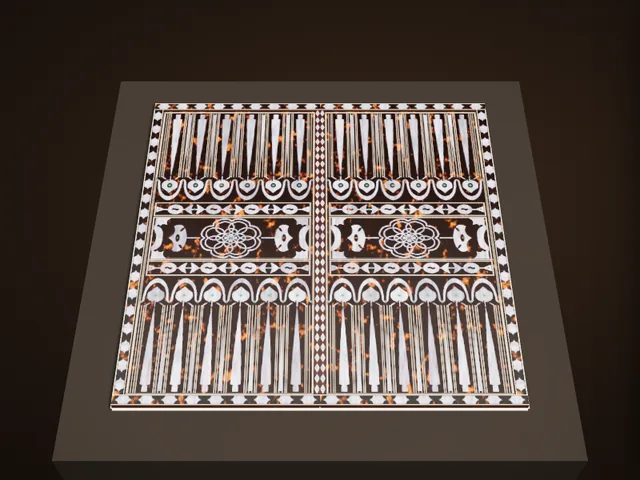
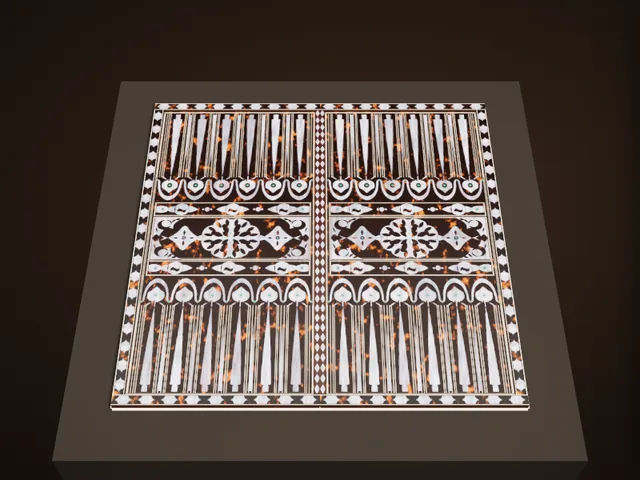
博物館：オスマン帝国の盤の帯とメダイヨンを写真の透かし彫りに合わせて描き直し
Claude-Session: https://claude.ai/code/session_01EiWRAZTxRF5M5nk5vdR2jJ

Changed region(s): [[0.2188, 0.375, 0.7812, 0.625], [0.7188, 0.25, 0.75, 0.3438], [0.4062, 0.625, 0.4375, 0.6562]]

diff --git a/atlas/museum/ex/ottoman.js b/atlas/museum/ex/ottoman.js
@@ -117,45 +117,53 @@
           bands.forEach(([by, bh, deep]) => {
             string(ix0 + cm(.2), by, iw - cm(.4), bh);
             const bx0 = ix0 + cm(.45), bx1 = ix1 - cm(.45), bw = bx1 - bx0, bcy = by + bh / 2;
+            // a hole cut through a pearl piece, showing the turtle shell beneath
+            const H = (path) => { g.fillStyle = SP; g.fill(path); m.fillStyle = '#000'; m.fill(path); g.strokeStyle = 'rgba(40,22,14,.5)'; g.lineWidth = 1; g.stroke(path); };
+            const drop = (x, y, rx, ry, rot) => { const p = new Path2D(); const c = Math.cos(rot), s2 = Math.sin(rot), T = (u, v) => [x + u * c - v * s2, y + u * s2 + v * c];
+              p.moveTo(...T(0, -ry)); p.quadraticCurveTo(...T(rx, -ry * .1), ...T(0, ry)); p.quadraticCurveTo(...T(-rx, -ry * .1), ...T(0, -ry)); return p; };
             if (!deep) {
-              // a chain: roundels with an S of shell in the middle, between pointed lobed motifs, all on a thin stem
-              const n = 4, step = bw / n;
-              const stem = new Path2D(); stem.rect(bx0, bcy - cm(.1), bw, cm(.2)); P(stem, .02);
-              for (let i = 0; i < n; i++) { const rx = bx0 + step * (i + .5);
-                const ro = new Path2D(); ro.ellipse(rx, bcy, cm(1.2), cm(.92), 0, 0, 6.29); P(ro);
-                const ss = new Path2D(); ss.moveTo(rx - cm(.5), bcy + cm(.1)); ss.bezierCurveTo(rx - cm(.2), bcy - cm(.5), rx + cm(.2), bcy + cm(.5), rx + cm(.5), bcy - cm(.1)); g.strokeStyle = SP; g.lineWidth = cm(.34); g.stroke(ss); m.strokeStyle = '#000'; m.lineWidth = cm(.34); m.stroke(ss);
-                if (i < n) { const lx = bx0 + step * i; [-1, 1].forEach(sd => { if ((i === 0 && sd < 0)) return; const ax = lx + (i === 0 ? 0 : 0), lob = new Path2D();
-                  lob.moveTo(ax + sd * cm(.25), bcy - cm(.95)); lob.quadraticCurveTo(ax + sd * cm(1.0), bcy - cm(.7), ax + sd * cm(1.55), bcy); lob.quadraticCurveTo(ax + sd * cm(1.0), bcy + cm(.7), ax + sd * cm(.25), bcy + cm(.95)); lob.quadraticCurveTo(ax + sd * cm(.75), bcy, ax + sd * cm(.25), bcy - cm(.95)); if (i) P(lob); }); if (i) GR(lx, bcy, cm(.14), cm(.2)); }
+              // (after the photograph) three roundels, each a disc of pearl with a wave of shell through it, flanked by pointed lobes;
+              // a bead between the groups; a leaf with a green drop at each end
+              const n = 3, step = bw / n;
+              for (let i = 0; i < n; i++) { const rx = bx0 + step * (i + .5), R1 = Math.min(bh * .42, cm(1.15));
+                const u = new Path2D(); u.ellipse(rx, bcy, R1 * 1.05, R1, 0, 0, 6.29);
+                [-1, 1].forEach(sd => { u.moveTo(rx + sd * R1 * .9, bcy - R1 * .55); u.quadraticCurveTo(rx + sd * R1 * 1.6, bcy - R1 * .5, rx + sd * R1 * 2.25, bcy); u.quadraticCurveTo(rx + sd * R1 * 1.6, bcy + R1 * .5, rx + sd * R1 * .9, bcy + R1 * .55); u.closePath(); });
+                P(u);
+                const ss = new Path2D(); ss.moveTo(rx - R1 * .62, bcy + R1 * .12); ss.bezierCurveTo(rx - R1 * .25, bcy - R1 * .62, rx + R1 * .25, bcy + R1 * .62, rx + R1 * .62, bcy - R1 * .12);
+                ss.lineTo(rx + R1 * .62, bcy + R1 * .3); ss.bezierCurveTo(rx + R1 * .25, bcy + R1 * 1.1, rx - R1 * .25, bcy - R1 * .14, rx - R1 * .62, bcy + R1 * .56); ss.closePath(); H(ss);
+                if (i) { const bx = bx0 + step * i, bd = new Path2D(); bd.ellipse(bx, bcy, R1 * .32, R1 * .38, 0, 0, 6.29); bd.moveTo(bx + R1 * .7, bcy); bd.ellipse(bx + R1 * .55, bcy, R1 * .15, R1 * .15, 0, 0, 6.29); bd.moveTo(bx - R1 * .4, bcy); bd.ellipse(bx - R1 * .55, bcy, R1 * .15, R1 * .15, 0, 0, 6.29); P(bd); }
               }
-              // the pointed finials at each end
-              [bx0, bx1].forEach((ex, k) => { const sd = k ? -1 : 1, f = new Path2D(); f.moveTo(ex, bcy - cm(.55)); f.quadraticCurveTo(ex + sd * cm(.9), bcy - cm(.25), ex + sd * cm(1.25), bcy); f.quadraticCurveTo(ex + sd * cm(.9), bcy + cm(.25), ex, bcy + cm(.55)); f.closePath(); P(f); GR(ex + sd * cm(.45), bcy, cm(.13), cm(.2)); });
+              [bx0, bx1].forEach((ex, k) => { const sd = k ? -1 : 1, f = new Path2D(), R1 = Math.min(bh * .4, cm(1.1)); f.moveTo(ex, bcy - R1 * .5); f.quadraticCurveTo(ex + sd * R1 * 1.2, bcy - R1 * .9, ex + sd * R1 * 2.0, bcy); f.quadraticCurveTo(ex + sd * R1 * 1.2, bcy + R1 * .9, ex, bcy + R1 * .5); f.closePath(); P(f); GR(ex + sd * R1 * .95, bcy, R1 * .2, R1 * .28); });
             } else {
-              // the deep band: a round fretted medallion of interlace (four joined quarters), smaller lobed cartouches either side,
-              // fretted hooks (spandrels) in the corners
-              const mx = bx0 + bw / 2, MW = cm(4.7), MH = bh * .47, lw = cm(.16);
-              const strokeP = (p, wdt) => { g.strokeStyle = PP; g.lineWidth = wdt; g.stroke(p); m.strokeStyle = '#fff'; m.lineWidth = wdt; m.stroke(p); g.strokeStyle = 'rgba(40,22,14,.45)'; g.lineWidth = 1; g.stroke(p); };
-              // a lobed round medallion (eight ogee lobes) filled with a dense interlace of rings, a quatrefoil at the heart
-              const lob = new Path2D(), LB = 8;
-              for (let q = 0; q <= LB * 8; q++) { const a = q / (LB * 8) * Math.PI * 2, f = Math.abs(Math.sin(a * LB / 2)), rr = 1 - .14 * Math.pow(1 - f, 2); const x = mx + Math.cos(a) * MW * rr, y = bcy + Math.sin(a) * MH * rr; q ? lob.lineTo(x, y) : lob.moveTo(x, y); } lob.closePath();
-              strokeP(lob, lw * 1.2);
-              const ring = new Path2D();
-              for (let q = 0; q < 8; q++) { const a = q / 8 * Math.PI * 2 + Math.PI / 8, x = mx + Math.cos(a) * MW * .56, y = bcy + Math.sin(a) * MH * .56; ring.moveTo(x + MW * .3, y); ring.ellipse(x, y, MW * .3, MH * .3, 0, 0, Math.PI * 2); }
-              for (let q = 0; q < 4; q++) { const a = q / 4 * Math.PI * 2, x = mx + Math.cos(a) * MW * .28, y = bcy + Math.sin(a) * MH * .28; ring.moveTo(x + MW * .2, y); ring.ellipse(x, y, MW * .2, MH * .2, 0, 0, Math.PI * 2); }
-              strokeP(ring, lw);
-              const qf = new Path2D(); for (let q = 0; q < 4; q++) { const a = q * Math.PI / 2; qf.moveTo(mx, bcy); qf.quadraticCurveTo(mx + Math.cos(a - .5) * MW * .3, bcy + Math.sin(a - .5) * MH * .3, mx + Math.cos(a) * MW * .2, bcy + Math.sin(a) * MH * .2); qf.quadraticCurveTo(mx + Math.cos(a + .5) * MW * .3, bcy + Math.sin(a + .5) * MH * .3, mx, bcy); } P(qf);
-              GR(mx, bcy, cm(.13), cm(.19));
-              const MWt = MW;
-              // long finials from the points of the mandorla, ending in a lobed palmette; quarter medallions at the band's ends
-              [-1, 1].forEach(sd => { const tx = mx + sd * MWt, fx = mx + sd * bw * .34, fin = new Path2D();
-                fin.moveTo(tx, bcy - cm(.12)); fin.lineTo(fx - sd * cm(1.4), bcy - cm(.12)); fin.quadraticCurveTo(fx - sd * cm(1.0), bcy - bh * .42, fx + sd * cm(.7), bcy - bh * .28); fin.quadraticCurveTo(fx + sd * cm(.1), bcy - bh * .1, fx + sd * cm(1.4), bcy);
-                fin.quadraticCurveTo(fx + sd * cm(.1), bcy + bh * .1, fx + sd * cm(.7), bcy + bh * .28); fin.quadraticCurveTo(fx - sd * cm(1.0), bcy + bh * .42, fx - sd * cm(1.4), bcy + cm(.12)); fin.lineTo(tx, bcy + cm(.12)); fin.closePath();
-                fin.moveTo(fx + sd * cm(.35), bcy); fin.ellipse(fx, bcy, cm(.35), bh * .09, 0, 0, 6.29, sd > 0);
-                [-1, 1].forEach(vs => { const ex2 = fx - sd * cm(.6), ey = bcy + vs * bh * .2; fin.moveTo(ex2 + cm(.2), ey); fin.ellipse(ex2, ey, cm(.2), bh * .06, vs * sd * .6, 0, 6.29, sd > 0); }); P(fin); GR(fx, bcy, cm(.1), cm(.15));
-                const ex = sd < 0 ? bx0 : bx1, q = new Path2D(); q.moveTo(ex, bcy - bh * .3); q.quadraticCurveTo(ex - sd * cm(1.7), bcy - bh * .26, ex - sd * cm(1.5), bcy); q.quadraticCurveTo(ex - sd * cm(1.7), bcy + bh * .26, ex, bcy + bh * .3); q.lineTo(ex, bcy + bh * .22); q.quadraticCurveTo(ex - sd * cm(1.15), bcy, ex, bcy - bh * .22); q.closePath(); P(q); });
-              // spandrels: a hooked cloud band in each corner
-              [[bx0, by, 1, 1], [bx1, by, -1, 1], [bx0, by + bh, 1, -1], [bx1, by + bh, -1, -1]].forEach(([sx, sy, dx, dy]) => { const sp = new Path2D();
-                sp.moveTo(sx, sy + dy * cm(.15)); sp.lineTo(sx + dx * cm(2.6), sy + dy * cm(.15)); sp.quadraticCurveTo(sx + dx * cm(1.6), sy + dy * cm(.6), sx + dx * cm(2.0), sy + dy * cm(1.5)); sp.quadraticCurveTo(sx + dx * cm(1.2), sy + dy * cm(1.1), sx + dx * cm(1.0), sy + dy * cm(1.7)); sp.quadraticCurveTo(sx + dx * cm(.6), sy + dy * cm(1.0), sx + dx * cm(.15), sy + dy * cm(2.1)); sp.lineTo(sx + dx * cm(.15), sy + dy * cm(.15)); sp.closePath();
-                sp.moveTo(sx + dx * cm(.9), sy + dy * cm(.6)); sp.ellipse(sx + dx * cm(1.0), sy + dy * cm(.75), cm(.35), cm(.22), 0, 0, 6.29, dx * dy < 0); P(sp); });
+              // (after the photograph) the deep band: a lobed medallion of fretted pearl at the centre, a fretted lozenge of palmettes
+              // either side on a stem, and large fretted spandrels filling the four corners
+              const mx = bx0 + bw / 2, MW = bw * .19, MH = bh * .48;
+              const stem = new Path2D(); stem.rect(bx0 + bw * .2, bcy - cm(.09), bw * .6, cm(.18)); P(stem, .02);
+              const med = new Path2D(), LB = 8;
+              for (let q = 0; q <= 160; q++) { const a = q / 160 * Math.PI * 2, f = Math.abs(Math.sin(a * LB / 2)), rr = 1 - .12 * Math.pow(1 - f, 2), x = mx + Math.cos(a) * MW * rr, y = bcy + Math.sin(a) * MH * rr; q ? med.lineTo(x, y) : med.moveTo(x, y); } med.closePath();
+              [-1, 1].forEach(sd => { med.moveTo(mx + sd * MW * .96, bcy - MH * .14); med.lineTo(mx + sd * MW * 1.32, bcy); med.lineTo(mx + sd * MW * .96, bcy + MH * .14); });   // the pointed ends on the axis
+              P(med);
+              // the fretwork: rings of holes — hearts and drops — leaving the interlaced straps of pearl; the axes left solid
+              for (let q = 0; q < 16; q++) { const a = (q + .5) / 16 * Math.PI * 2; H(drop(mx + Math.cos(a) * MW * .78, bcy + Math.sin(a) * MH * .78, MW * .14, MH * .2, a + Math.PI / 2)); }
+              for (let q = 0; q < 8; q++) { const a = (q + .5) / 8 * Math.PI * 2; H(drop(mx + Math.cos(a) * MW * .5, bcy + Math.sin(a) * MH * .5, MW * .2, MH * .26, a - Math.PI / 2)); }
+              for (let q = 0; q < 8; q++) { const a = q / 8 * Math.PI * 2 + Math.PI / 8; const p = new Path2D(); p.ellipse(mx + Math.cos(a) * MW * .64, bcy + Math.sin(a) * MH * .64, MW * .09, MH * .1, 0, 0, 6.29); H(p); }
+              for (let q = 0; q < 4; q++) { const a = (q + .5) * Math.PI / 2; H(drop(mx + Math.cos(a) * MW * .26, bcy + Math.sin(a) * MH * .26, MW * .15, MH * .19, a + Math.PI / 2)); }
+              [[1, 0], [-1, 0], [0, 1], [0, -1]].forEach(([ux, uy]) => { const l = new Path2D(); l.rect(Math.min(mx, mx + ux * MW * .95) - (ux ? 0 : cm(.04)), Math.min(bcy, bcy + uy * MH * .95) - (uy ? 0 : cm(.04)), ux ? MW * .95 : cm(.08), uy ? MH * .95 : cm(.08)); g.fillStyle = PP; g.fill(l); m.fillStyle = '#fff'; m.fill(l); });
+              GR(mx, bcy - MH * .22, cm(.09), cm(.14)); GR(mx, bcy + MH * .22, cm(.09), cm(.14));
+              // either side: a lozenge of palmettes, fretted
+              [-1, 1].forEach(sd => { const lx = mx + sd * bw * .3, LWd = bw * .1, LHt = bh * .3, lz = new Path2D();
+                lz.moveTo(lx - LWd, bcy); lz.quadraticCurveTo(lx - LWd * .45, bcy - LHt * .35, lx - LWd * .2, bcy - LHt * .8); lz.quadraticCurveTo(lx, bcy - LHt * 1.1, lx + LWd * .2, bcy - LHt * .8); lz.quadraticCurveTo(lx + LWd * .45, bcy - LHt * .35, lx + LWd, bcy);
+                lz.quadraticCurveTo(lx + LWd * .45, bcy + LHt * .35, lx + LWd * .2, bcy + LHt * .8); lz.quadraticCurveTo(lx, bcy + LHt * 1.1, lx - LWd * .2, bcy + LHt * .8); lz.quadraticCurveTo(lx - LWd * .45, bcy + LHt * .35, lx - LWd, bcy); lz.closePath();
+                [-1, 1].forEach(e => { lz.moveTo(lx + e * LWd * 1.5, bcy - LHt * .2); lz.lineTo(lx + e * LWd * 1.0, bcy); lz.lineTo(lx + e * LWd * 1.5, bcy + LHt * .2); lz.lineTo(lx + e * LWd * 1.25, bcy); lz.closePath(); });
+                P(lz);
+                H(drop(lx, bcy - LHt * .42, LWd * .16, LHt * .22, 0)); H(drop(lx, bcy + LHt * .42, LWd * .16, LHt * .22, Math.PI)); H(drop(lx - LWd * .5, bcy, LWd * .12, LHt * .16, -Math.PI / 2)); H(drop(lx + LWd * .5, bcy, LWd * .12, LHt * .16, Math.PI / 2));
+                const c0 = new Path2D(); c0.ellipse(lx, bcy, LWd * .14, LHt * .14, 0, 0, 6.29); H(c0); GR(lx, bcy, LWd * .07, LHt * .08); });
+              // the corner spandrels: big pieces of pearl reaching in from each corner, cut with crescents and drops
+              [[bx0, by, 1, 1], [bx1, by, -1, 1], [bx0, by + bh, 1, -1], [bx1, by + bh, -1, -1]].forEach(([sx, sy, dx, dy]) => { const sp = new Path2D(), SW = bw * .2, SH = bh * .5;
+                sp.moveTo(sx, sy); sp.lineTo(sx + dx * SW, sy); sp.quadraticCurveTo(sx + dx * SW * .55, sy + dy * SH * .25, sx + dx * SW * .62, sy + dy * SH * .55); sp.quadraticCurveTo(sx + dx * SW * .3, sy + dy * SH * .45, sx + dx * SW * .2, sy + dy * SH * .92); sp.quadraticCurveTo(sx + dx * SW * .08, sy + dy * SH * .7, sx, sy + dy * SH); sp.closePath(); P(sp);
+                const cr = new Path2D(); cr.ellipse(sx + dx * SW * .32, sy + dy * SH * .38, SW * .22, SH * .24, 0, 0, 6.29); cr.ellipse(sx + dx * SW * .4, sy + dy * SH * .3, SW * .16, SH * .17, 0, 0, 6.29, true); H(cr);
+                H(drop(sx + dx * SW * .75, sy + dy * SH * .1, SW * .08, SH * .1, dx * 1.2));
+                H(drop(sx + dx * SW * .62, sy + dy * SH * .18, SW * .07, SH * .12, dx * .8)); H(drop(sx + dx * SW * .1, sy + dy * SH * .62, SW * .05, SH * .14, dx * -.3)); });
             }
           });
           // the points: six from the far edge, six from the near edge

diff --git a/atlas/museum.js b/atlas/museum.js
@@ -32,7 +32,7 @@
   const ROOMS = [
     { id: 'map', ready: () => !!window.AtlasMap, render: (el, c) => AtlasMap.render(el, c) },
     { id: 'tree', src: ['museum/tree.js?v=2'], ready: () => !!window.AtlasTree, render: (el, c) => AtlasTree.render(el, c) },
-    { id: 'gallery', src: ['museum/gallery.js?v=12'], ready: () => !!window.AtlasGallery, render: (el, c) => AtlasGallery.render(el, c) },
+    { id: 'gallery', src: ['museum/gallery.js?v=13'], ready: () => !!window.AtlasGallery, render: (el, c) => AtlasGallery.render(el, c) },
   ];
   const KEY = 'atlas-museum-room';
   const esc = s => String(s == null ? '' : s).replace(/[&<>"]/g, c => ({ '&': '&amp;', '<': '&lt;', '>': '&gt;', '"': '&quot;' }[c]));

diff --git a/atlas/index.html b/atlas/index.html
@@ -2559,7 +2559,7 @@ window.AtlasRgdTimer = function (btn, ms, alive) {
 <link rel="stylesheet" href="worldmap.css?v=19">
 <link rel="stylesheet" href="museum.css?v=4">
 <script src="worldmap.js?v=40"></script>
-<script src="museum.js?v=13"></script>
+<script src="museum.js?v=14"></script>
 <script src="npc/npc.js?v=46"></script>
 <script src="avtalk.js?v=4"></script>
 <script>/* Page states as classes on <html> (2026-11-21) — html.cov-on: the 3D view / Historia / a sheet / a level sheet is open;

diff --git a/atlas/museum/gallery.js b/atlas/museum/gallery.js
@@ -10,7 +10,7 @@
    (a turn, a zoom, the slow turntable) and never while the window is in the background. */
 (function () {
   'use strict';
-  const V = 12;
+  const V = 13;
   /* ---------- the pieces: id, the game it belongs to, its scale (cm per model unit), the camera's start, the details ----------
      lock: { game, ach } → open after that many achievements of the game. src: the files the piece needs (besides ex/<id>.js) */
   const EX = [

diff --git a/claude/museum-spec.md b/claude/museum-spec.md
@@ -45,7 +45,7 @@
     `atlas/tools/exrender.html?id=<id>&view=top&w=<cm>&d=<cm>`（写真の撮り方に合わせた均一な照明で真上から描く。斜めからは `cam=` `t=`）を描き、
     `python3 tools/museum-similarity.py 写真.jpg 描画.png --box x0,y0,x1,y1 --out 並べた画像.png` で比べる。
     structure（形と配置）・edges（模様の線の位置）・layout（明暗や色の配置）・palette（素材の色）と total（0〜100）。点数が上がる変更だけを採用し、並べた画像を目でも確かめる。
-    記録：オスマン帝国の盤（バックギャモン面、V&A の写真 2012FP3720）total 18.9 → 34.9（2026-11-21）。
+    記録：オスマン帝国の盤（バックギャモン面、V&A の写真 2012FP3720）total 18.9 → 35.0（2026-11-21、帯とメダイヨンを写真の透かし彫りに合わせた）。
   - スマホで遠目に見たときのちらつき・白飛びがないこと（カメラの near/far を狭く、テクスチャはミップマップと異方性フィルタ、トーンマップの露出 .85、重なる面は polygonOffset）。
 - 収蔵品（2026-11-21）：
   - ウルの王族のゲーム盤（大英博物館 120834）— ポータルのウルの3D盤（`atlas/models/ur.js`）をそのまま使う（実物そっくりの出来）。
